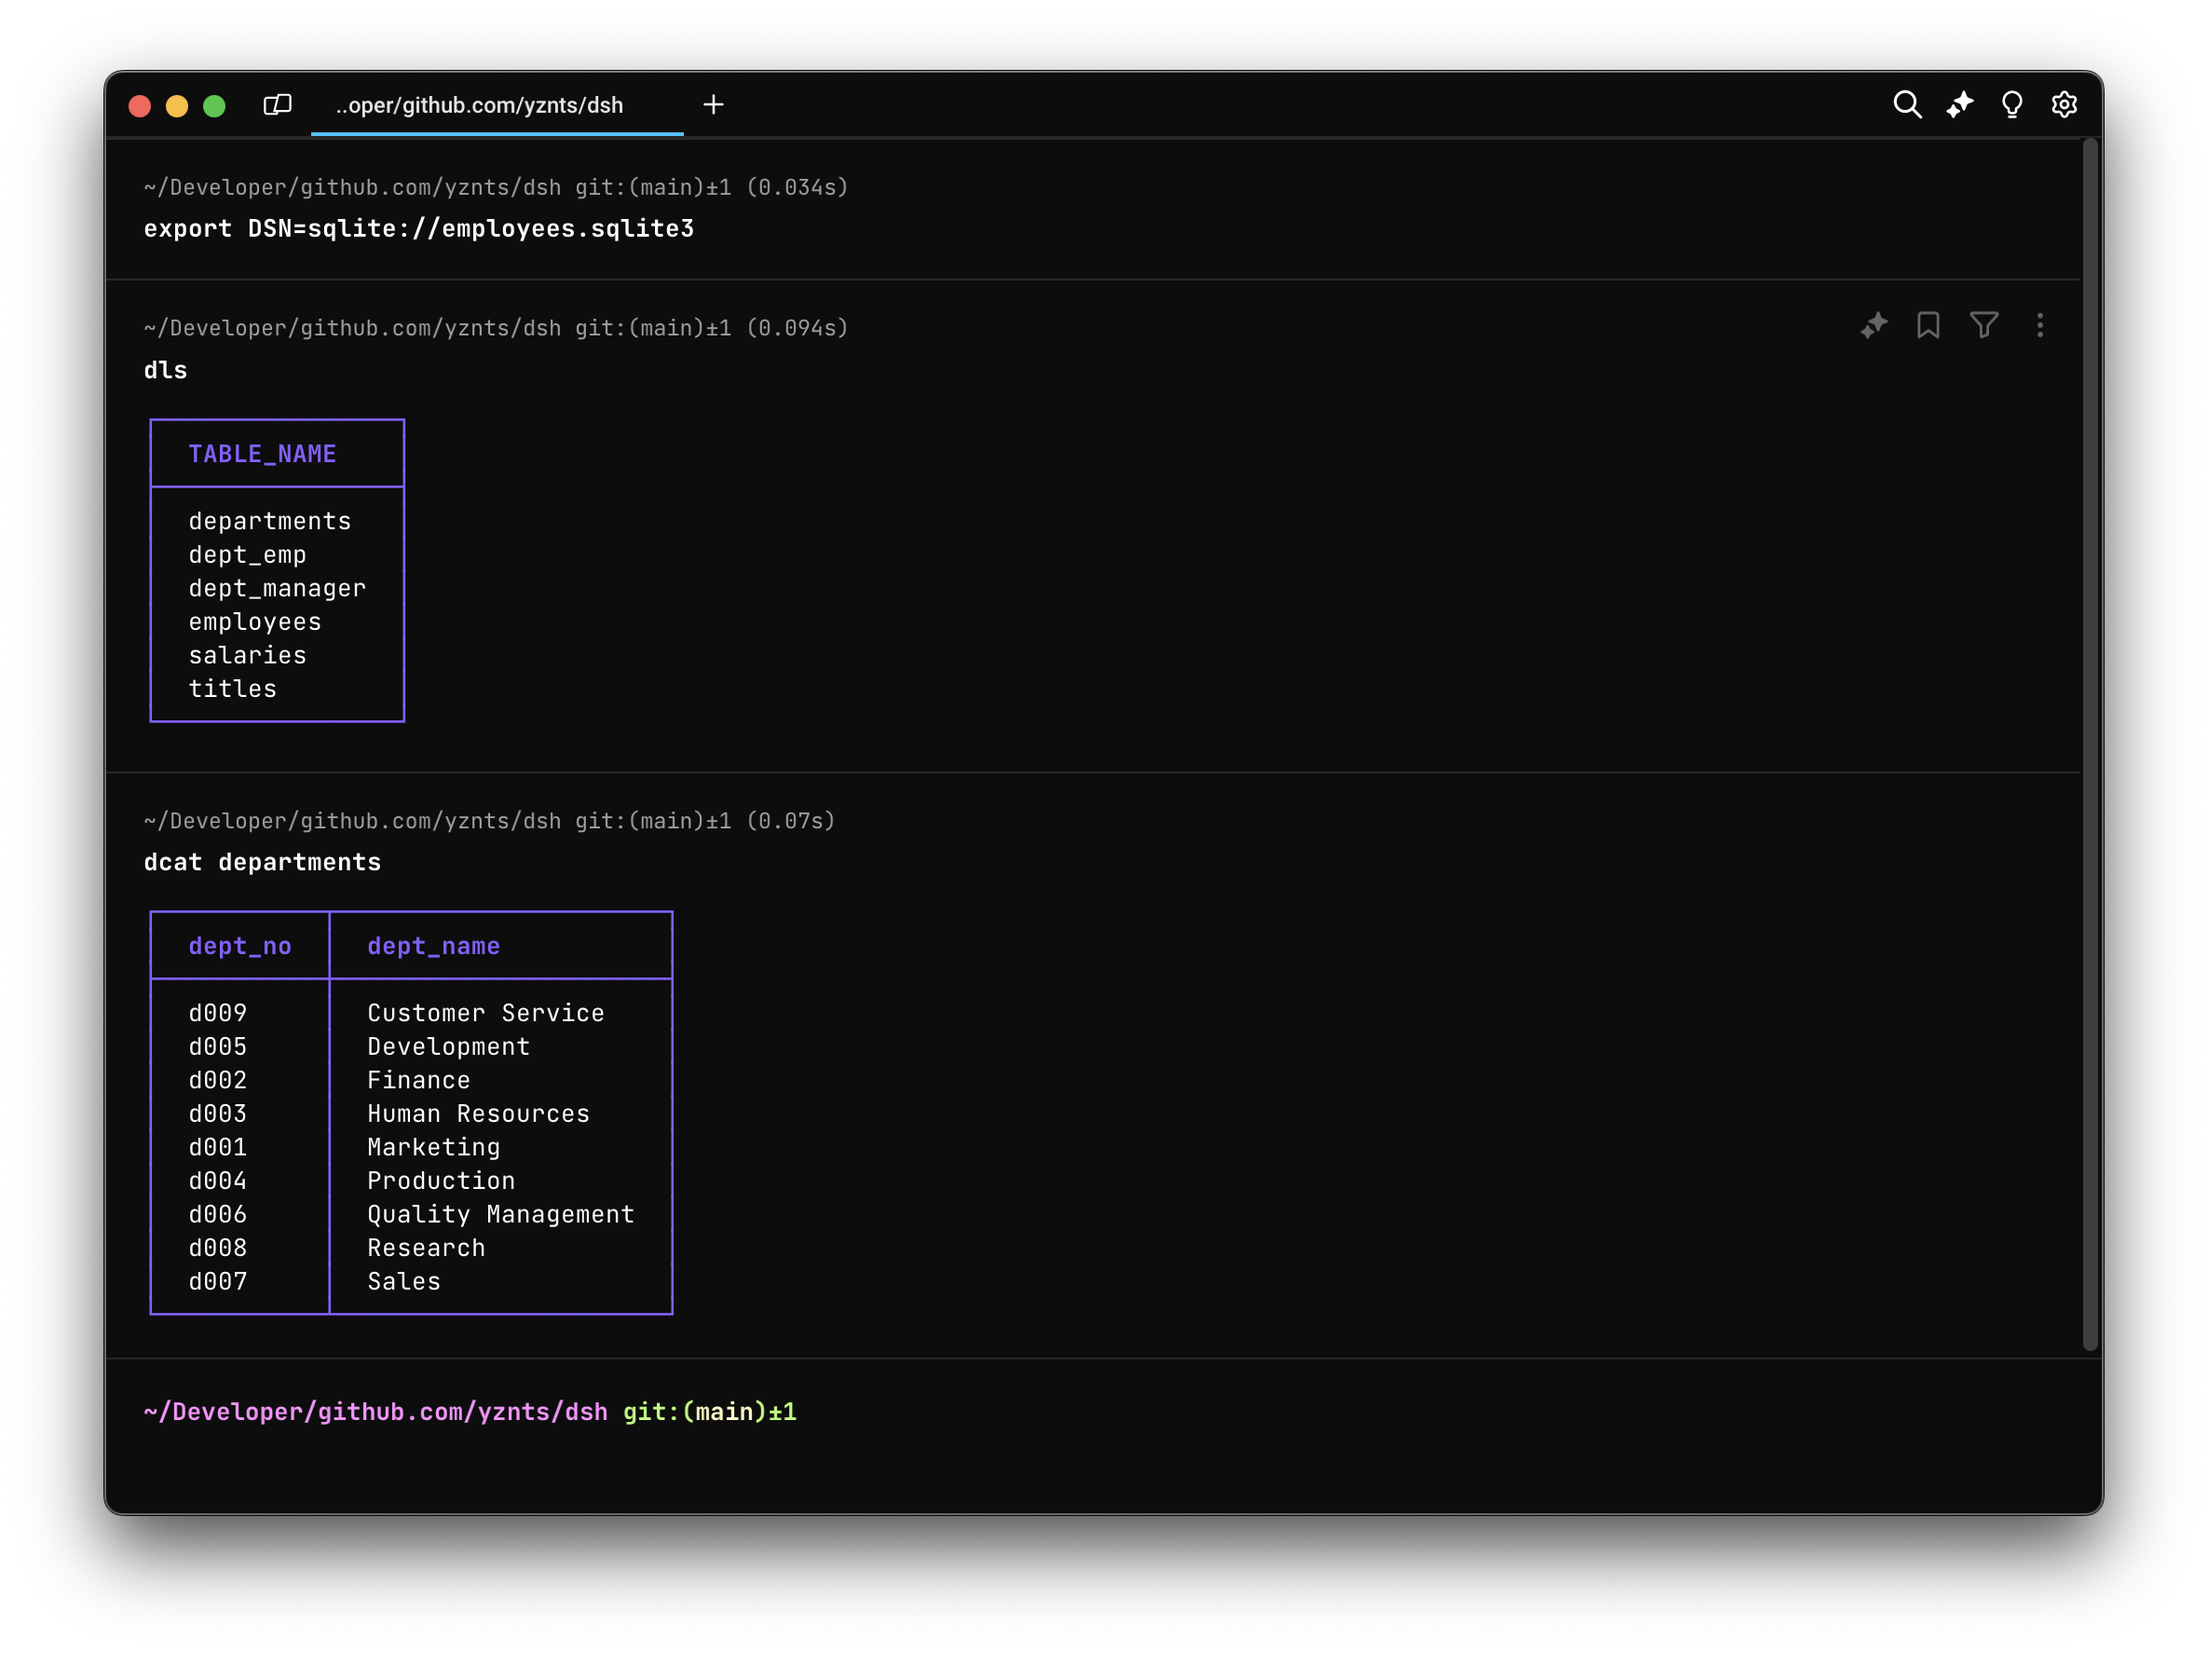
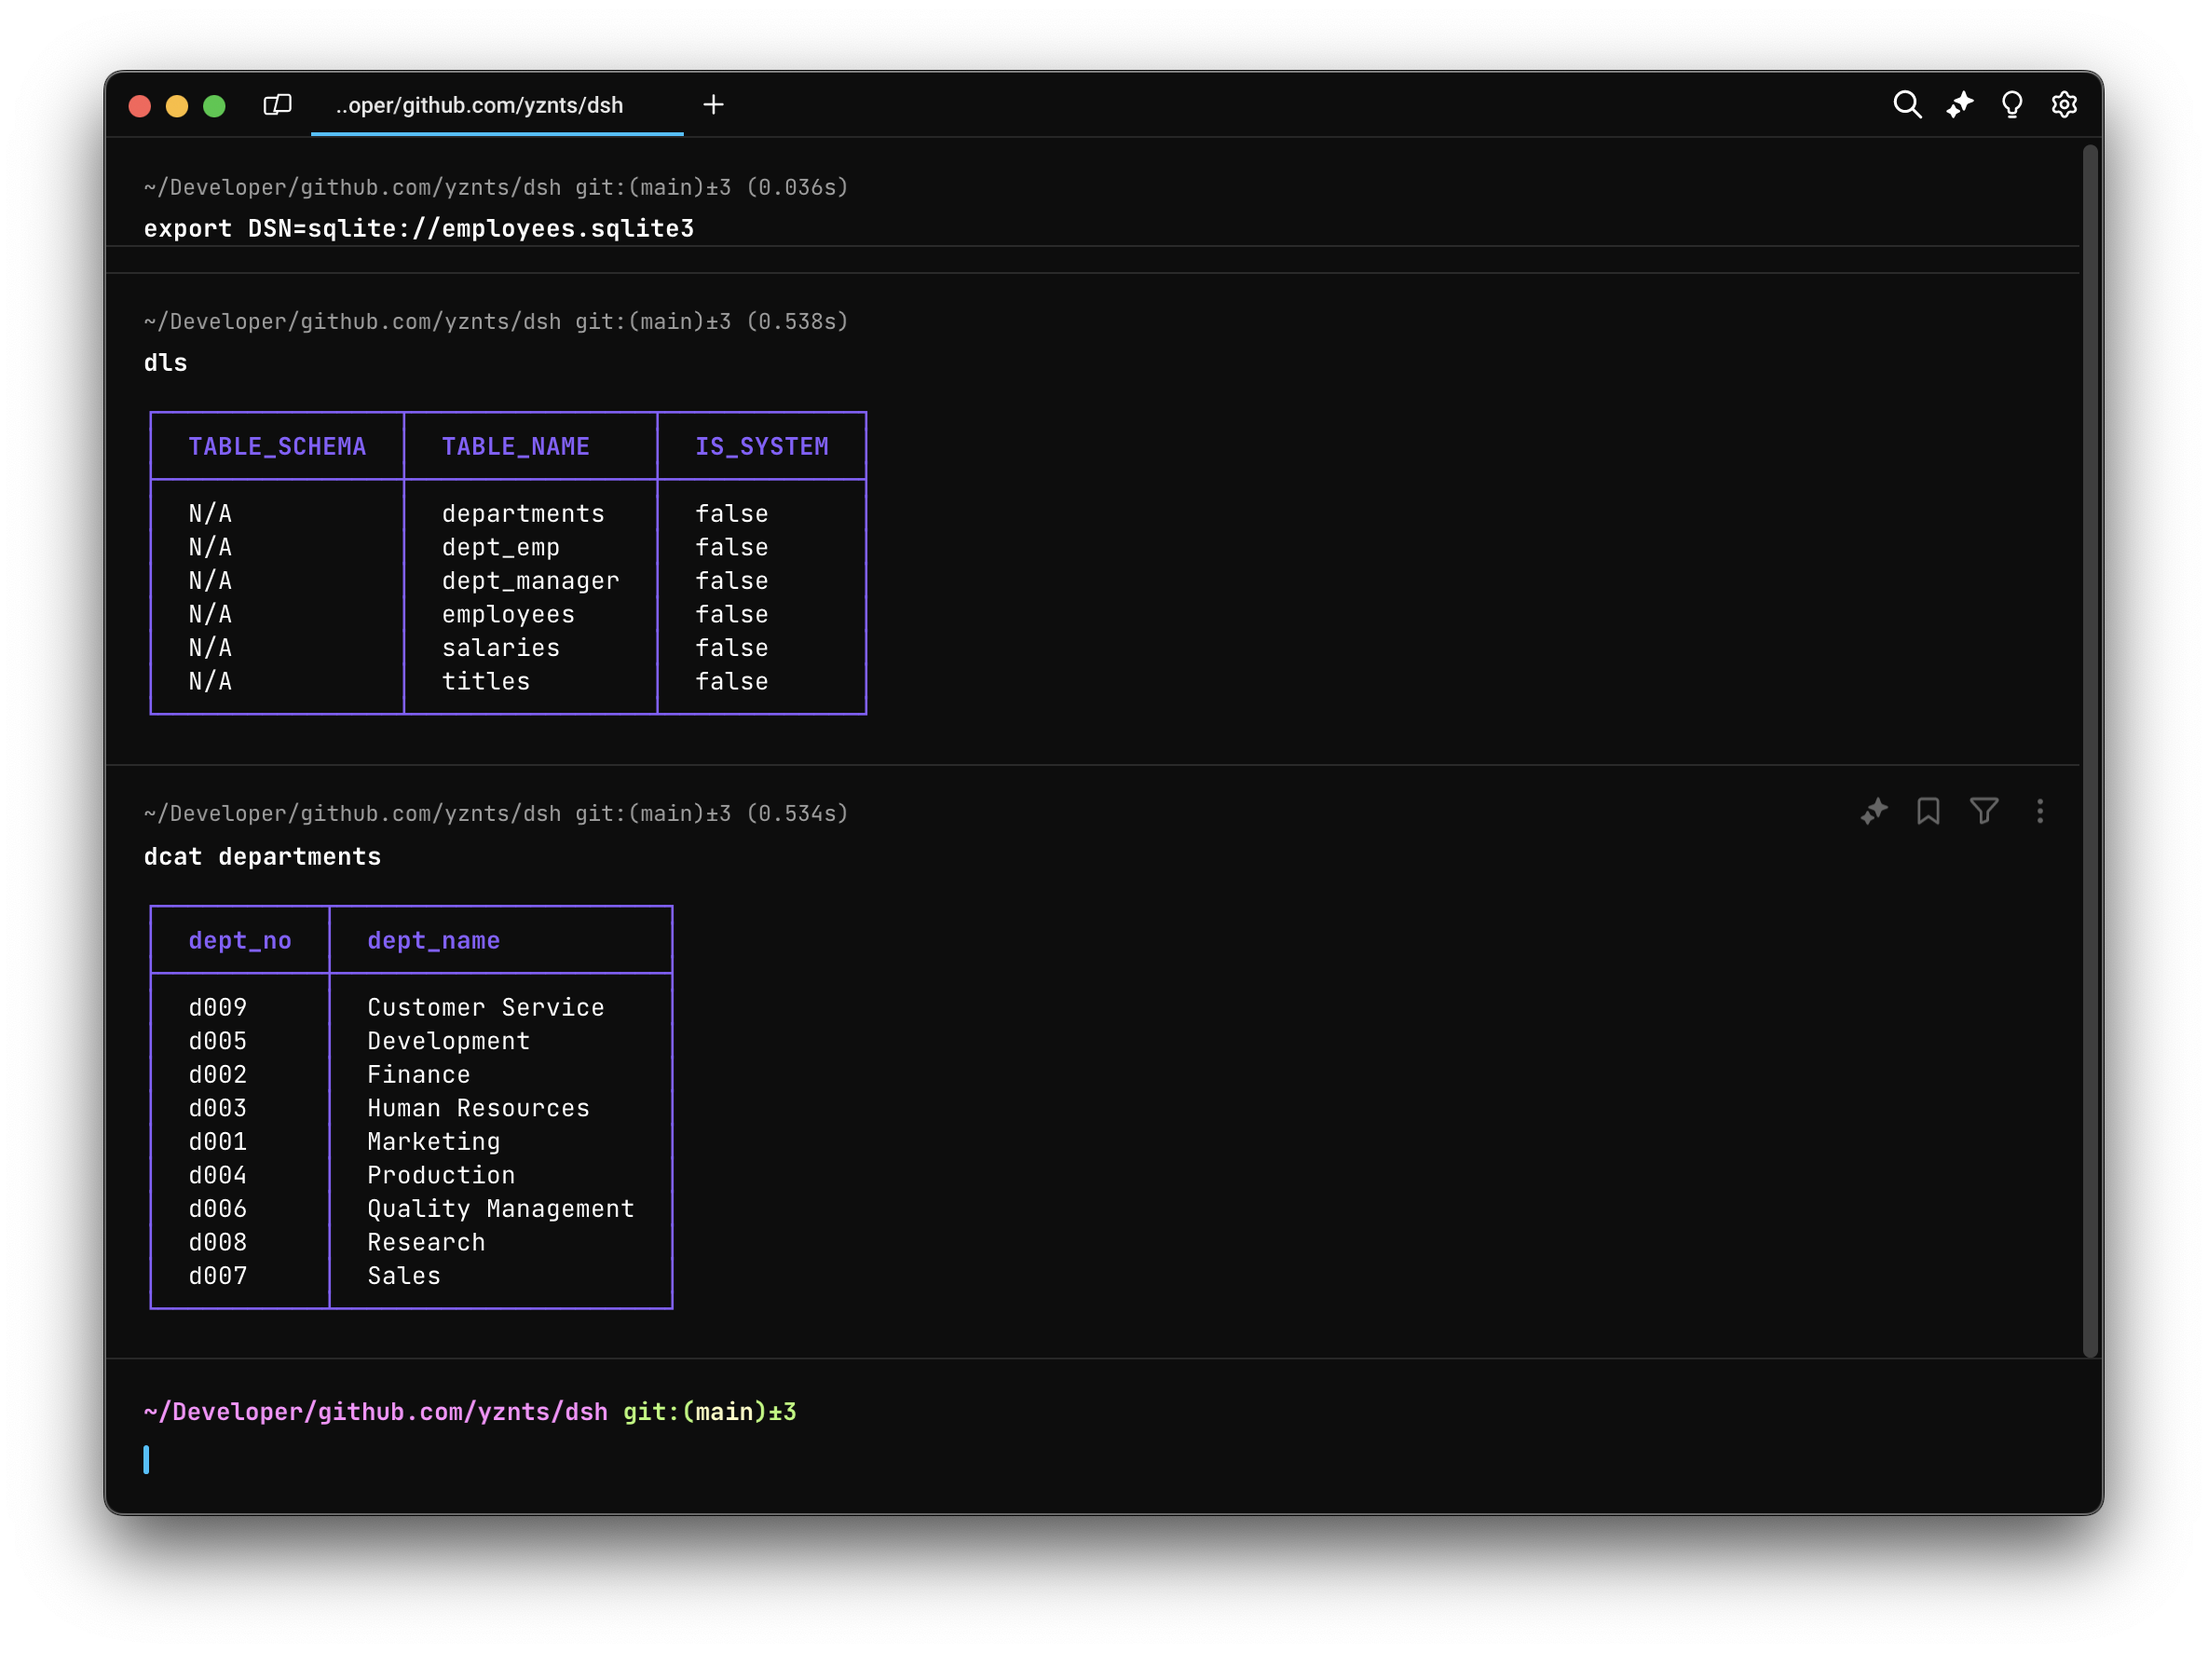
#1, #2: add schemas support, add system tables

diff --git a/pkg/ddb/query.go b/pkg/ddb/query.go
@@ -8,12 +8,20 @@ import (
 	"database/sql"
 	"errors"
 	"fmt"
+
+	"go.kyoto.codes/zen/v3/slice"
+)
+
+// System schemas/tables
+var (
+	systemTablesSqlite    = []string{"sqlite_master", "sqlite_sequence", "sqlite_stat1"}
+	systemSchemasPostgres = []string{"pg_catalog", "information_schema"}
 )
 
 // Database specific queries
 var (
-	sqlTablesSqlite   = "SELECT name FROM sqlite_master WHERE type='table';"
-	sqlTablesPostgres = "SELECT table_name FROM information_schema.tables WHERE table_schema = 'public';"
+	sqlTablesSqlite   = "SELECT name,'' FROM sqlite_master WHERE type='table';"
+	sqlTablesPostgres = "SELECT table_name,table_schema FROM information_schema.tables;"
 
 	sqlColumnsSqlite   = "SELECT name,type FROM PRAGMA_TABLE_INFO('%s')"
 	sqlColumnsPostgres = "SELECT column_name,data_type FROM information_schema.columns WHERE table_name = '%s'"
@@ -72,12 +80,31 @@ func QueryTables(db *sql.DB, scheme string) ([]Table, error) {
 		return tables, err
 	}
 	for rows.Next() {
-		var table string
-		err = rows.Scan(&table)
+		var table, schema string
+		err = rows.Scan(&table, &schema)
 		if err != nil {
 			return tables, err
 		}
-		tables = append(tables, Table{Name: table})
+		tables = append(tables, Table{Name: table, Schema: schema})
+	}
+	// Mark system tables
+	switch ResolveScheme(scheme) {
+	case "sqlite":
+		// SQLite doesn't include system tables into sqlite_master,
+		// so we have to manually add them.
+		tables = append(
+			tables,
+			slice.Map(systemTablesSqlite, func(t string) Table {
+				return Table{Name: t, System: true}
+			})...,
+		)
+	case "postgres":
+		tables = slice.Map(tables, func(t Table) Table {
+			if slice.Contains(systemSchemasPostgres, t.Schema) {
+				t.System = true
+			}
+			return t
+		})
 	}
 	return tables, nil
 }

diff --git a/cmd/dls/main.go b/cmd/dls/main.go
@@ -15,6 +15,7 @@ import (
 // Tool flags
 var (
 	fdsn   = flag.String("dsn", "", "Database connection (can be set via DSN/DATABASE/DATABASE_URL env)")
+	fall   = flag.Bool("all", false, "List all tables (including system)")
 	fcsv   = flag.Bool("csv", false, "Output in CSV format")
 	fjson  = flag.Bool("json", false, "Output in JSON format")
 	fjsonl = flag.Bool("jsonl", false, "Output in JSON lines format")
@@ -23,7 +24,7 @@ var (
 // Tool usage / description
 var (
 	fusage = "[flags...] [table]"
-	fdescr = "The dls utility lists tables (or table columns) in the database."
+	fdescr = "The dls utility lists tables/columns in the database."
 )
 
 // Database connection
@@ -66,11 +67,26 @@ func main() {
 		tables, err := ddb.QueryTables(db, dbdsn.Scheme)
 		dio.Error(stderr, err)
 
+		// Filter system tables
+		if !*fall {
+			tables = slice.Filter(tables, func(t ddb.Table) bool {
+				return !t.System
+			})
+		}
+
+		// If no schema, print 'N/A'
+		if slice.All(tables, func(t ddb.Table) bool { return t.Schema == "" }) {
+			tables = slice.Map(tables, func(t ddb.Table) ddb.Table {
+				t.Schema = "N/A"
+				return t
+			})
+		}
+
 		// Write tables
 		stdout.WriteTable(ddb.Data{
-			Cols: []string{"TABLE_NAME"},
+			Cols: []string{"TABLE_SCHEMA", "TABLE_NAME", "IS_SYSTEM"},
 			Rows: slice.Map(tables, func(t ddb.Table) []any {
-				return []any{t.Name}
+				return []any{t.Schema, t.Name, t.System}
 			}),
 		})
 	} else {

diff --git a/pkg/ddb/types.go b/pkg/ddb/types.go
@@ -8,10 +8,15 @@ type Data struct {
 	Rows [][]any
 }
 
+// Table holds table meta information,
+// not the actual data.
 type Table struct {
-	Name string
+	Schema string
+	Name   string
+	System bool // Indicates whether it's a system table
 }
 
+// Column holds column meta information.
 type Column struct {
 	Name string
 	Type string
